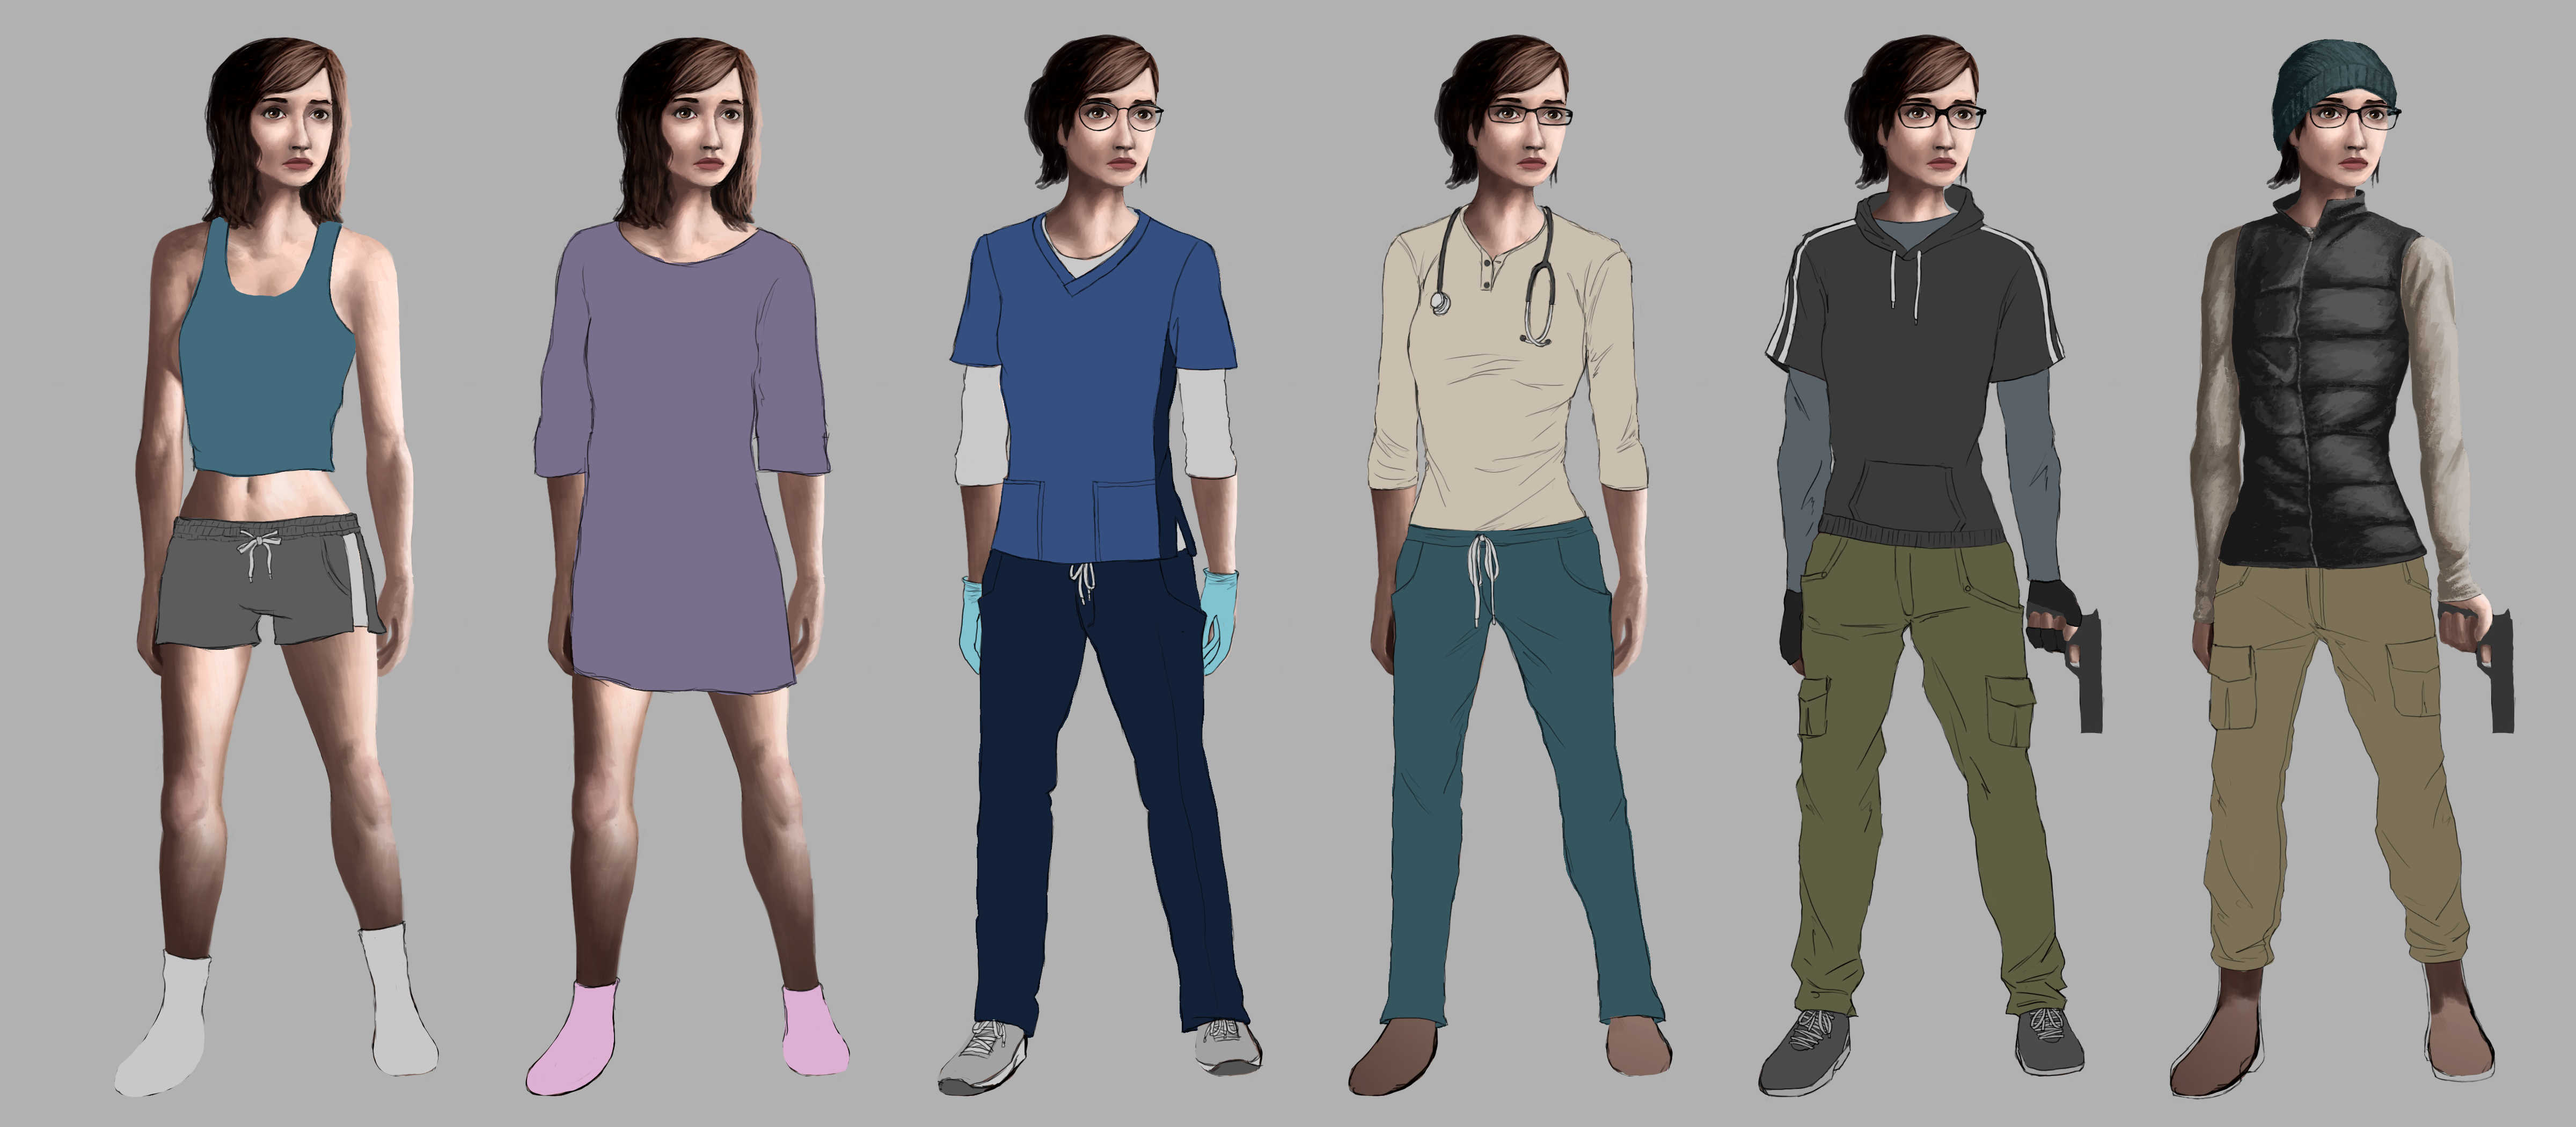
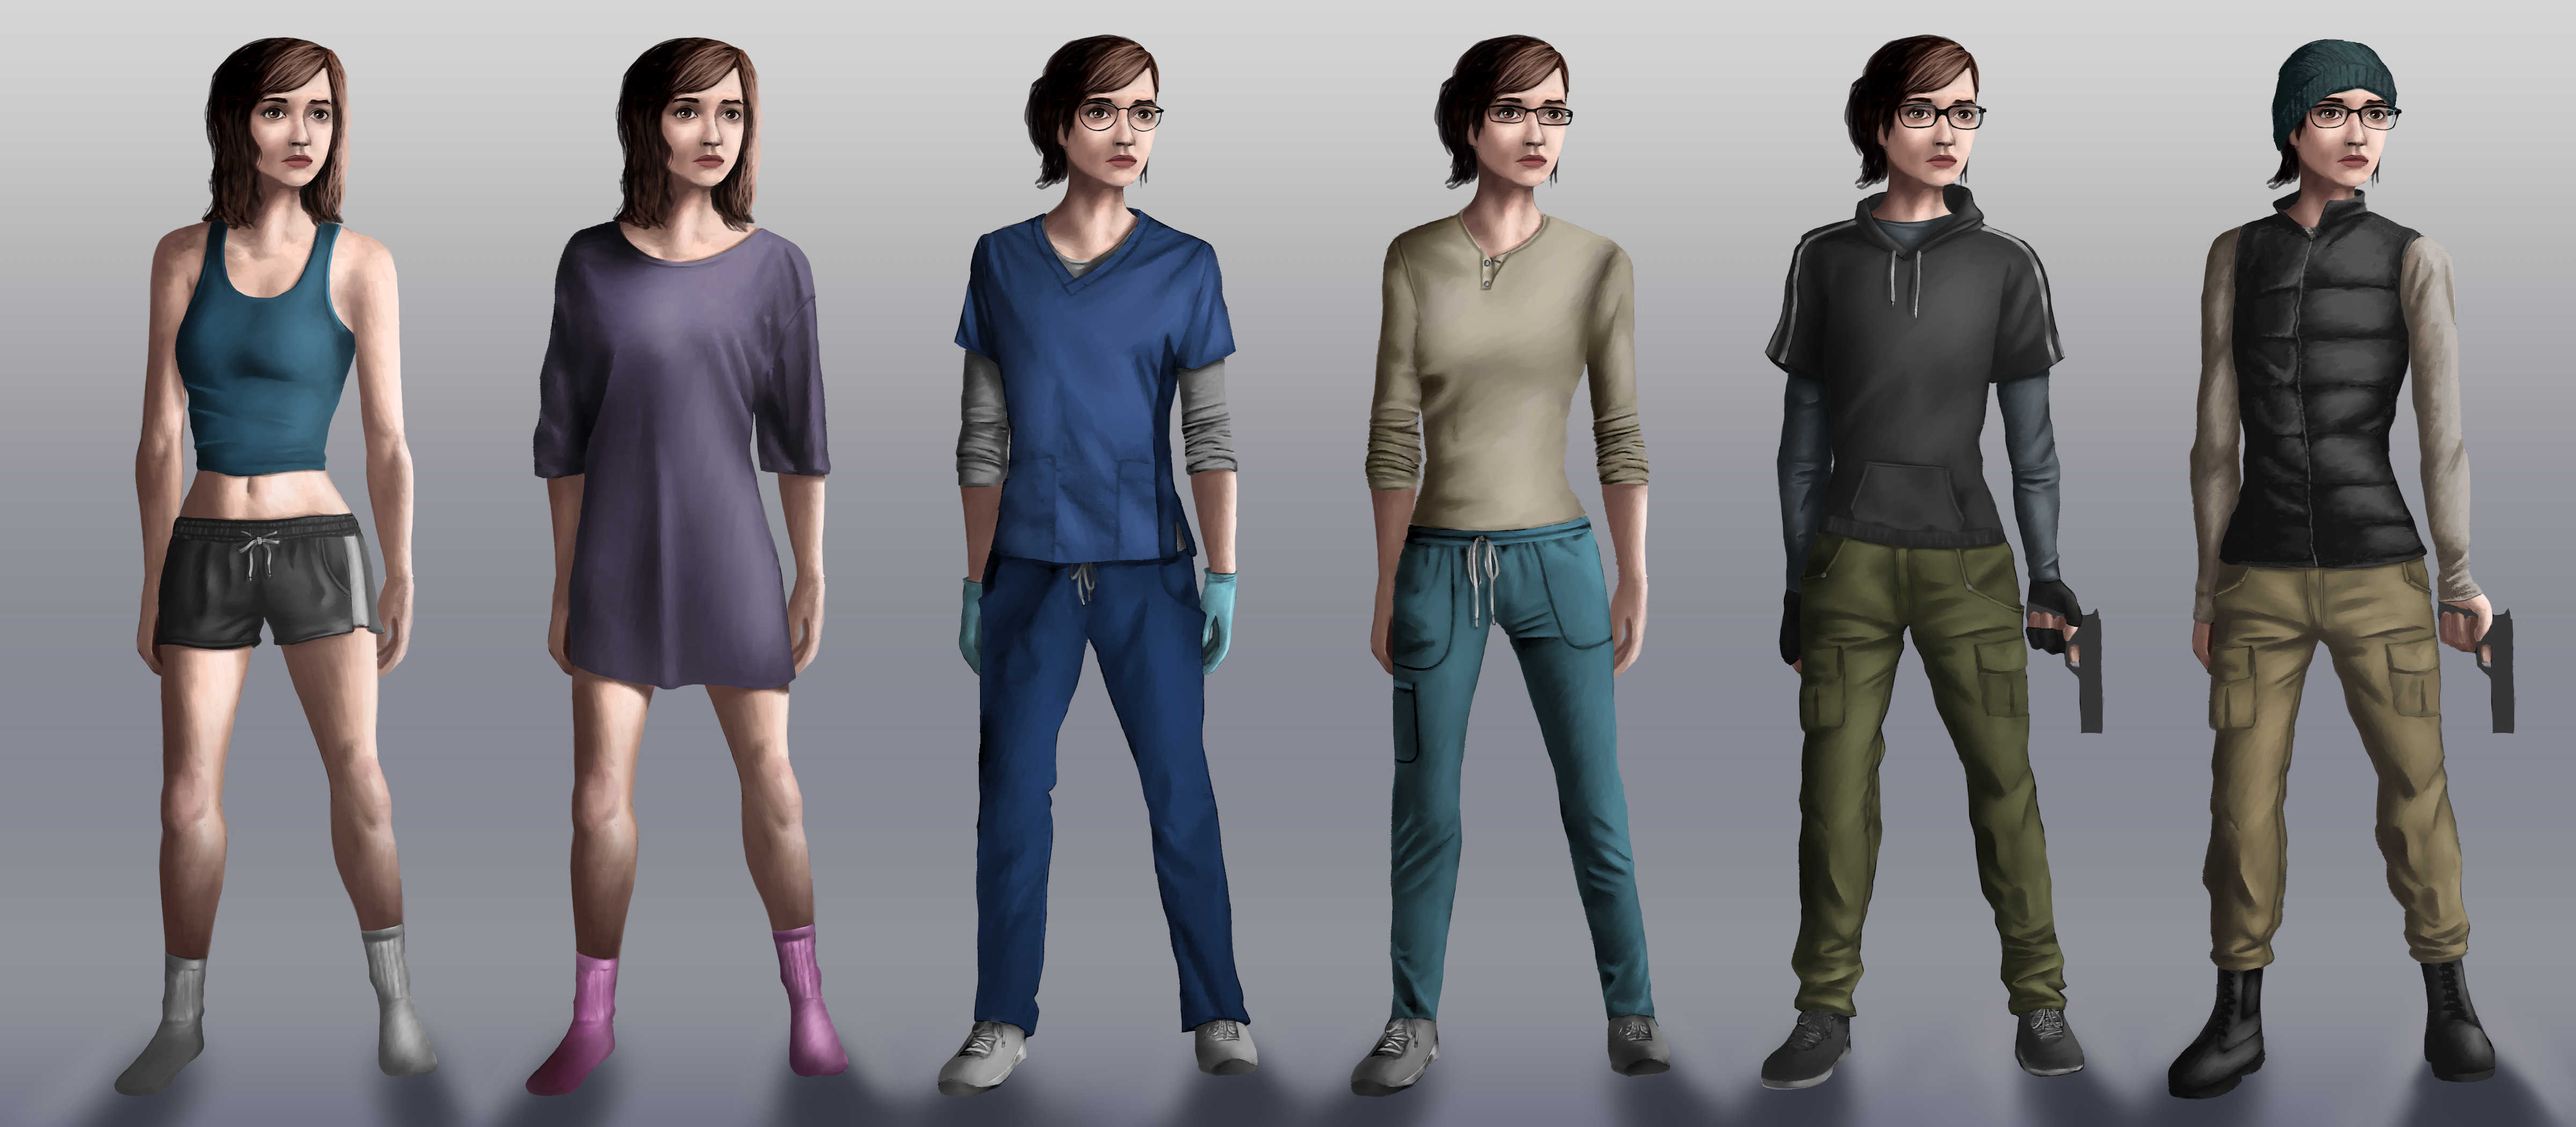
Added new costume for Zoe

diff --git a/angelsZoe.html b/angelsZoe.html
@@ -78,6 +78,12 @@
 
   <main class="project-wrapper">
     <ul class="project-grid">
+      <li class="project-image"><img src="project-images/Angels/Angels-Zoe-Costumes.jpg" alt="Zoe costume exploration"></li>
+    </ul>
+  </main>
+
+  <main class="project-wrapper">
+    <ul class="project-grid">
       <li class="project-image"><img src="project-images/Angels/Angels-Protag2-Explainer.png" alt="Main character 1 character portraits"></li>
     </ul>
   </main>
